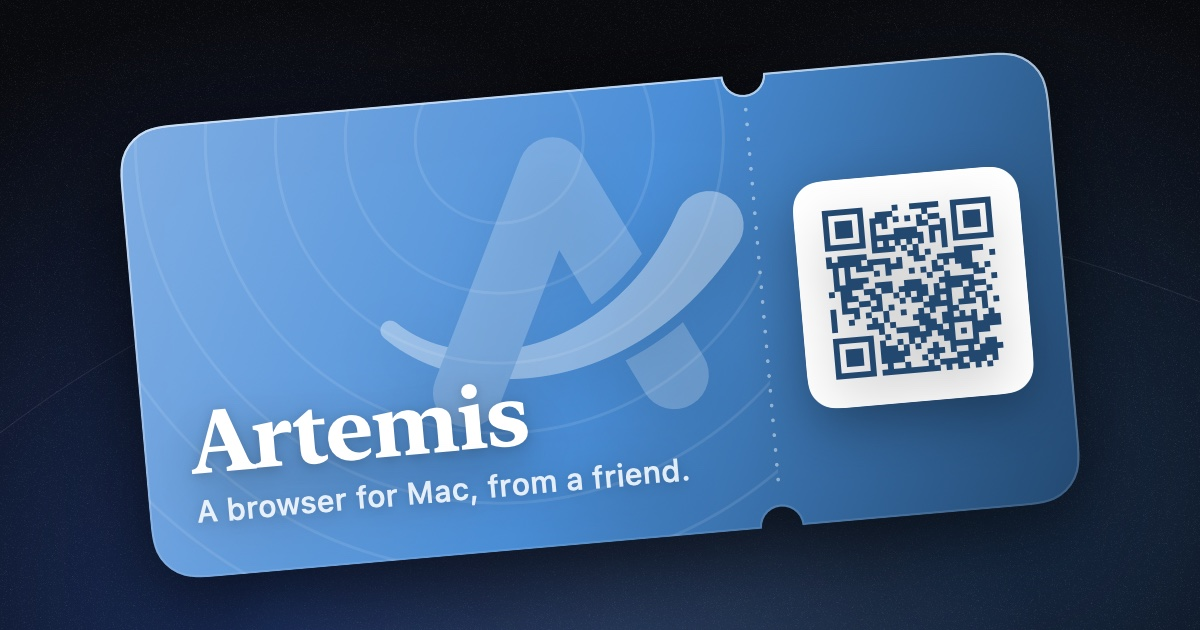
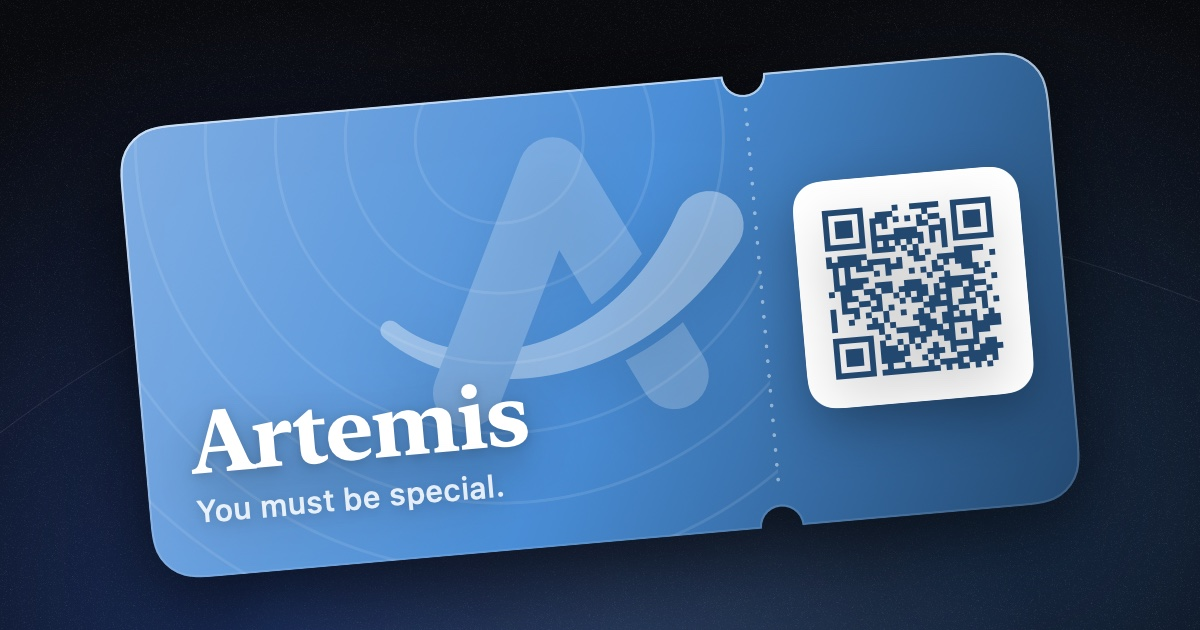
feat(site): /invite gets confetti, paired buttons and a warmer line
The ticket and the page say "You must be special." in place of
"from a friend", which left out family and everyone else. Download and
See what it does sit side by side, and confetti in the icon colours falls
once as the page arrives: CSS only, as the JS budget has 0.3 KB left, and
off under reduced motion.

Changed region(s): [[0.1542, 0.7238, 0.5858, 0.8444]]

diff --git a/website/src/css/components.css b/website/src/css/components.css
@@ -1377,9 +1377,131 @@ button.ctl:active {
 .solo-ticket + h1 {
   margin-top: 0;
 }
-.solo-more {
-  margin-top: 20px;
-  color: var(--ink-2);
+.solo-row {
+  display: flex;
+  flex-wrap: wrap;
+  justify-content: center;
+  gap: 12px;
+}
+.solo-row .btn:first-child {
+  background: var(--cta-bg);
+  box-shadow: none;
+  color: var(--cta-ink);
+}
+@media (hover: hover) and (pointer: fine) {
+  .solo-row .btn:first-child:hover {
+    background: var(--cta-hover);
+  }
+}
+
+/* ---------- invite: confetti in the icon colours, once, as the page arrives ---------- */
+.confetti {
+  display: none;
+}
+@media (prefers-reduced-motion: no-preference) {
+  .confetti {
+    display: block;
+    position: fixed;
+    inset: 0;
+    z-index: 1;
+    overflow: clip;
+    pointer-events: none;
+  }
+  .confetti i {
+    position: absolute;
+    top: -24px;
+    left: calc(var(--x) + var(--dx));
+    width: 8px;
+    height: var(--h);
+    border-radius: 2px;
+    background: var(--c);
+    animation: confetti var(--t) cubic-bezier(0.3, 0.2, 0.8, 0.9)
+      calc(0.3s + var(--d) + var(--dd)) both;
+  }
+  /* the periods 7 and 4 share no factor, so each of the 28 pieces falls in a place of its own */
+  .confetti i:nth-child(7n + 1) {
+    --x: 3%;
+  }
+  .confetti i:nth-child(7n + 2) {
+    --x: 59%;
+  }
+  .confetti i:nth-child(7n + 3) {
+    --x: 17%;
+  }
+  .confetti i:nth-child(7n + 4) {
+    --x: 73%;
+  }
+  .confetti i:nth-child(7n + 5) {
+    --x: 31%;
+  }
+  .confetti i:nth-child(7n + 6) {
+    --x: 86%;
+  }
+  .confetti i:nth-child(7n) {
+    --x: 45%;
+  }
+  .confetti i:nth-child(4n + 1) {
+    --dx: 0%;
+    --h: 14px;
+    --sway: 40px;
+    --axis: 1 0.4 0.2;
+  }
+  .confetti i:nth-child(4n + 2) {
+    --dx: 7%;
+    --h: 8px;
+    --sway: -30px;
+    --axis: 0.3 1 0.4;
+  }
+  .confetti i:nth-child(4n + 3) {
+    --dx: 3.5%;
+    --h: 12px;
+    --sway: 16px;
+    --axis: 1 1 0;
+  }
+  .confetti i:nth-child(4n) {
+    --dx: 10.5%;
+    --h: 6px;
+    --sway: -50px;
+    --axis: 0.2 0.6 1;
+  }
+  .confetti i:nth-child(5n + 1) {
+    --c: #4a8fd8;
+    --dd: 0s;
+  }
+  .confetti i:nth-child(5n + 2) {
+    --c: #57c89a;
+    --dd: 0.12s;
+  }
+  .confetti i:nth-child(5n + 3) {
+    --c: #e2bf55;
+    --dd: 0.24s;
+  }
+  .confetti i:nth-child(5n + 4) {
+    --c: #da8097;
+    --dd: 0.06s;
+  }
+  .confetti i:nth-child(5n) {
+    --c: #e8a77c;
+    --dd: 0.18s;
+  }
+  .confetti i:nth-child(3n + 1) {
+    --t: 2.6s;
+    --d: 0s;
+  }
+  .confetti i:nth-child(3n + 2) {
+    --t: 3.3s;
+    --d: 0.35s;
+  }
+  .confetti i:nth-child(3n) {
+    --t: 2.9s;
+    --d: 0.7s;
+  }
+}
+@keyframes confetti {
+  to {
+    translate: var(--sway) 110vh;
+    rotate: var(--axis) 3turn;
+  }
 }
 .dl {
   justify-content: flex-start;

diff --git a/website/src/pages/invite.html b/website/src/pages/invite.html
@@ -1,9 +1,14 @@
 <!-- SPDX-License-Identifier: GPL-3.0-only
      Copyright (c) 2026 Fin. Additional terms under GPL section 7 apply: see LICENSE-ADDITIONAL-TERMS. -->
 <main class="solo" id="main">
+  <div class="confetti" aria-hidden="true">
+    <i></i><i></i><i></i><i></i><i></i><i></i><i></i><i></i><i></i><i></i><i></i><i></i><i></i><i></i><i></i><i></i><i></i><i></i><i></i><i></i><i></i><i></i><i></i><i></i><i></i><i></i><i></i><i></i>
+  </div>
   <img class="solo-ticket" src="/assets/img/ticket.webp" width="600" height="354" alt="" />
   <h1>You’re invited to Artemis.</h1>
-  <p class="solo-body">A browser for Mac, from a friend.</p>
-  <a class="btn" href="/download">Download for Mac</a>
-  <p class="solo-more"><a href="/">See what it does</a></p>
+  <p class="solo-body">A browser for Mac. You must be special.</p>
+  <div class="solo-row">
+    <a class="btn" href="/download">Download for Mac</a>
+    <a class="btn" href="/">See what it does</a>
+  </div>
 </main>
